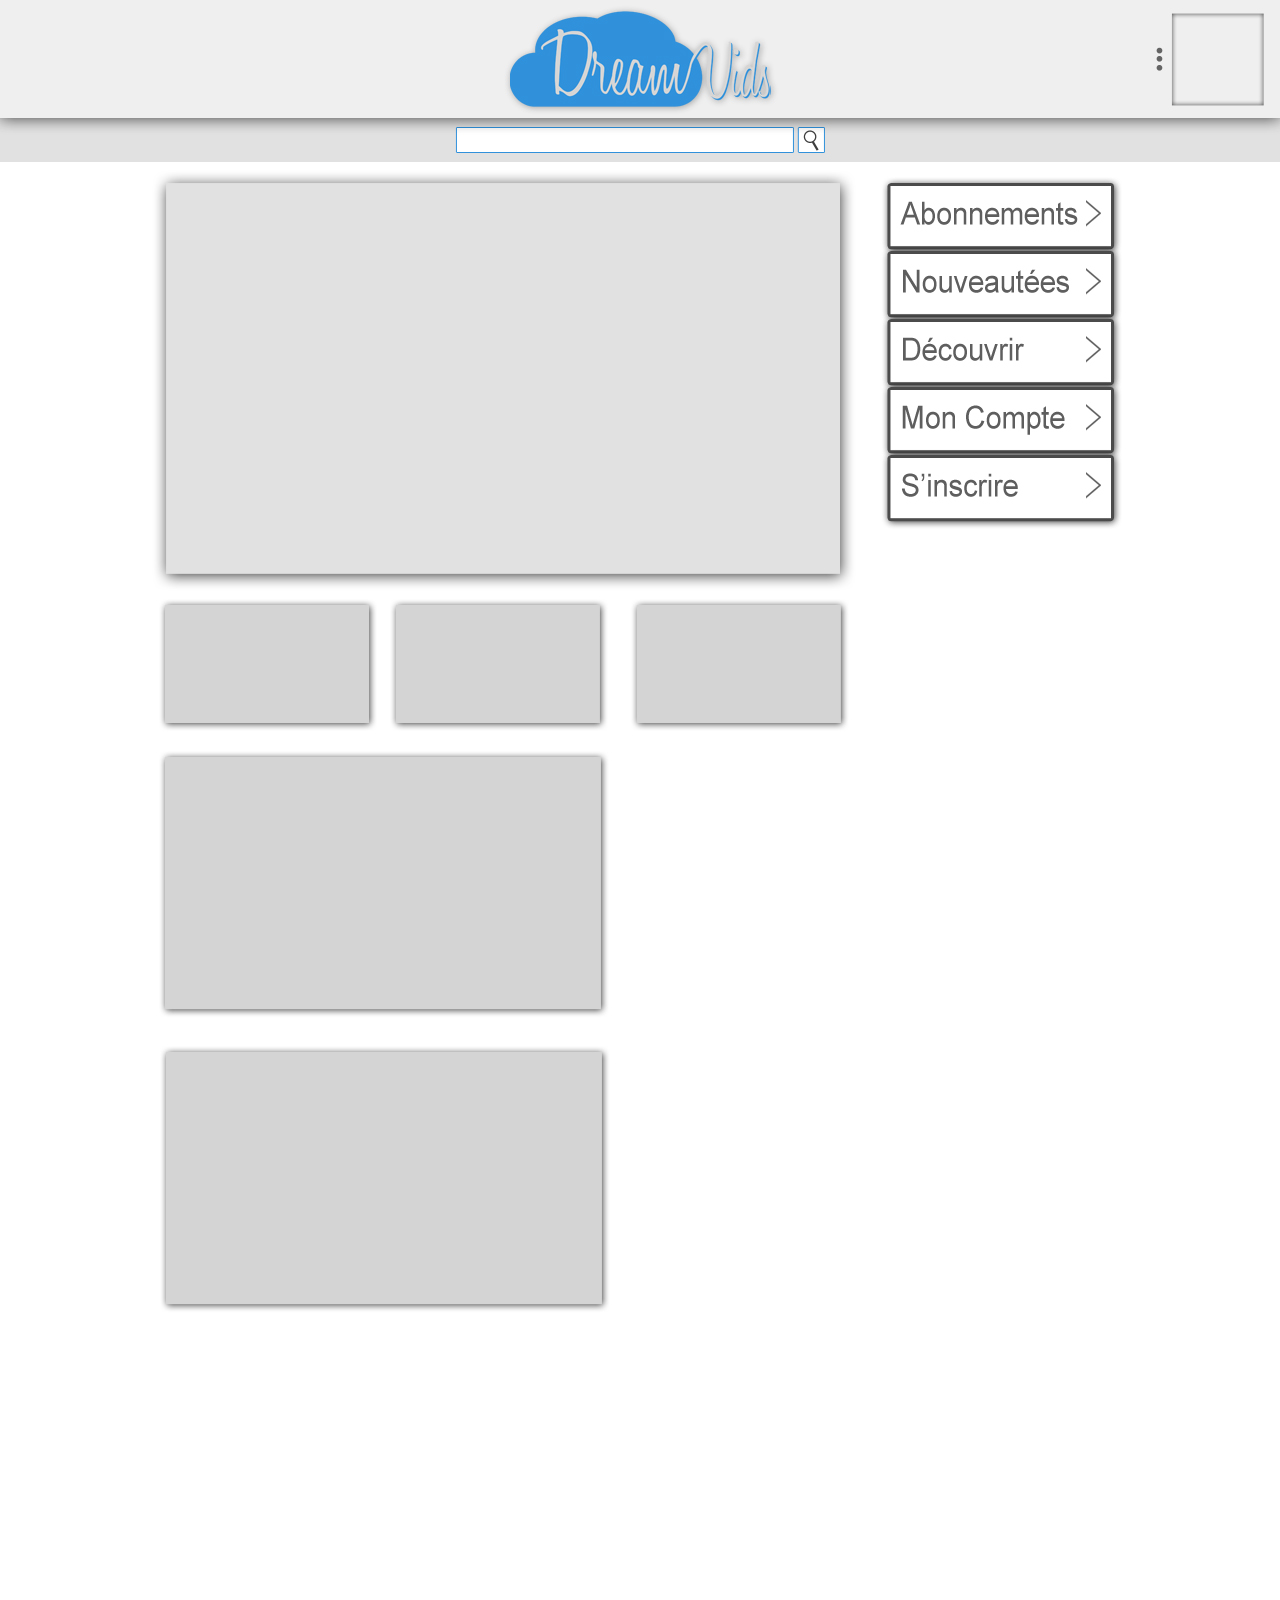
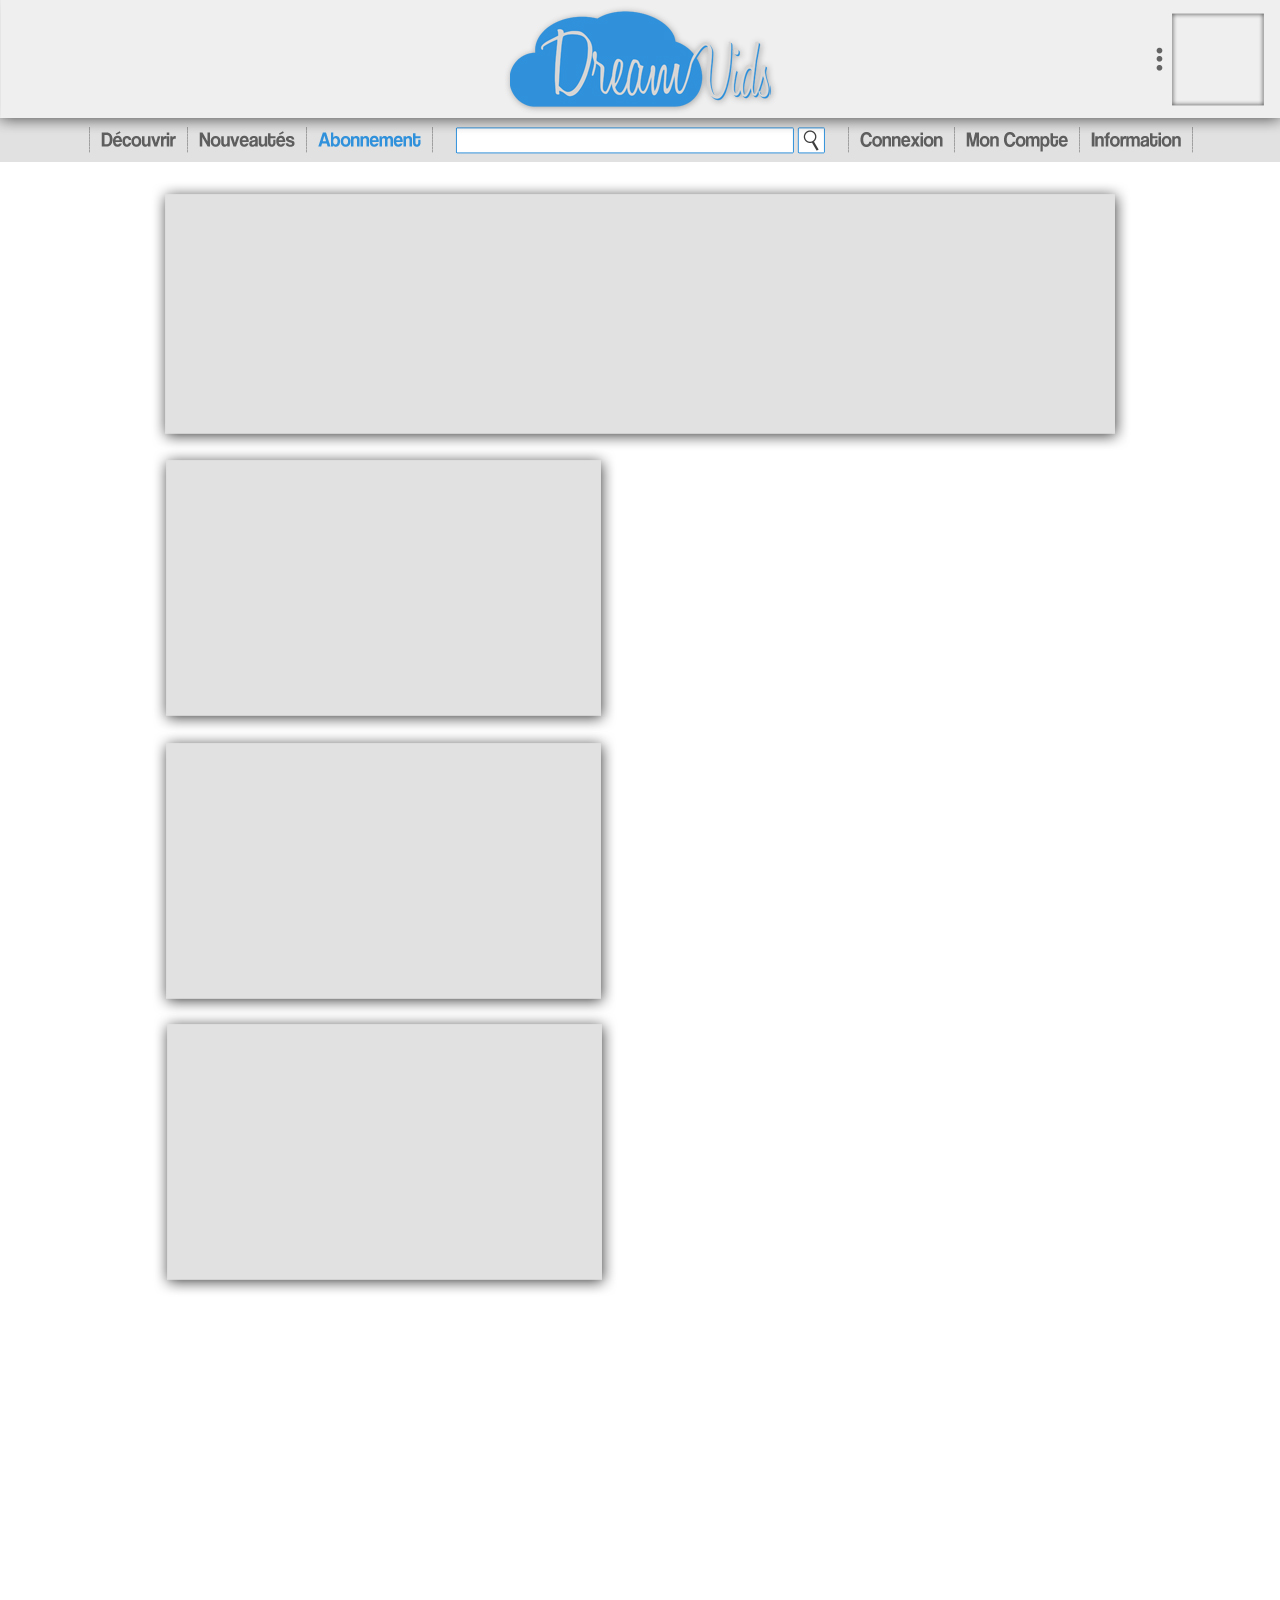
Begin login and adding templates top and bottom

Changed region(s): [[0.125, 0.0625, 0.9062, 0.8438], [0.0625, 0.0625, 0.125, 0.0938]]

diff --git a/css/style.css b/css/style.css
@@ -1,0 +1,1 @@
+@CHARSET "UTF-8";

diff --git a/log.php b/log.php
@@ -1,3 +1,37 @@
 <?php
+include 'includes/bdd.class.php';
+include 'includes/functions.php';
+include 'includes/tasks.php';
+require 'models/m_reg.php';
 
+if (isset($_GET['out']) )
+{
+	Log::Logout($session->user_id);
+	header('location:./');
+	exit();
+}
+
+if (isset($_POST['submit']) )
+{
+	if (Log::userExist($_POST['username']) )
+	{
+		$pass = Log::getPassFromUsername($_POST['username']);
+		if (sha1($_POST['pass']) == $pass)
+		{
+			Log::connect($user);
+			header('location:./');
+			exit();
+		}
+		else
+		{
+			$err = $lang['error_log_pass'];
+		}
+	}
+	else
+	{
+		$err = $lang['error_log_username'];
+	}
+}
+
+require 'views/v_log.php';
 ?>

diff --git a/views/v_reg.php b/views/v_reg.php
@@ -1,5 +1,7 @@
 <?php
-echo (isset($err) ) ? '<div class="alert alert-error">'.$lang['error'].': '.$err.'</div>' : '';
+require '_top.php';
+
+echo (isset($err) ) ? '<div class="alert alert-danger">'.$lang['error'].': '.$err.'</div>' : '';
 echo (!isset($err) && isset($_POST['submit']) ) ? '<div class="alert alert-success">'.$lang['reg_ok'].'</div>' : '';
 ?>
 <form action="" method="post">
@@ -13,3 +15,6 @@ echo (!isset($err) && isset($_POST['submit']) ) ? '<div class="alert alert-succe
 	<br /><br />
 	<input type="submit" name="submit" value="<?php echo $lang['register']; ?>" />
 </form>
+<?php
+require '_btm.php';
+?>

diff --git a/lang/lang_fr.php b/lang/lang_fr.php
@@ -24,6 +24,12 @@ $lang = array(
 
 'password_confirm' => 'Confirmez le mot de passe',
 
-'register' => 'M\'inscrire !'
+'register' => 'M\'inscrire !',
+
+'error_log_username' => 'Cet utilisateur n\'existe pas.',
+
+'error_log_pass' => 'Mot de passe incorrect.',
+
+'login' => 'Connexion'
 );
 ?>

diff --git a/views/_top.php b/views/_top.php
@@ -1,0 +1,9 @@
+<html>
+	<head>
+		<title>DreamVids</title>
+		<meta charset="utf-8" />
+		<link href="css/bootstrap.min.css" rel="stylesheet" />
+		<link href="css/style.css" rel="stylesheet" />
+	</head>
+	
+	<body>

diff --git a/views/v_log.php b/views/v_log.php
@@ -1,3 +1,7 @@
 <?php
+require '_top.php';
 
+echo (isset($err) ) ? '<div class="alert alert-danger">'.$lang['error'].': '.$err.'</div>' : '';
+
+require '_btm.php';
 ?>

diff --git a/views/_btm.php b/views/_btm.php
@@ -1,0 +1,4 @@
+		<script type="text/javascript" src="js/jquery.js"></script>
+		<script type="text/javascript" src="js/bootstrap.js"></script>
+	</body>
+</html>

diff --git a/models/m_log.php b/models/m_log.php
@@ -1,3 +1,6 @@
 <?php
-
+class Log
+{
+	
+}
 ?>
